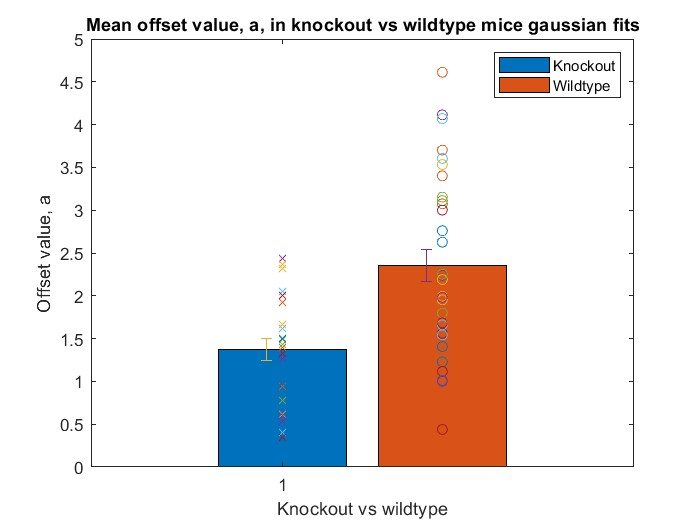
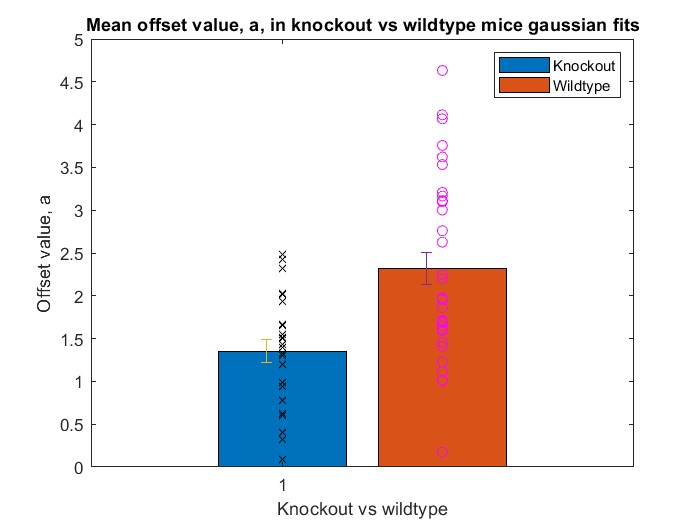
Final verison

diff --git a/graph_bar.m b/graph_bar.m
@@ -4,16 +4,16 @@ bar(1,mean_a_ko);
 hold on;
 bar(2,mean_a_wt);
 hold on;
-plot(1, a_ko_good, 'x');
+plot(1, a_ko_good, 'kx');
 hold on;
-plot(2, a_wt_good, 'o');
+plot(2, a_wt_good, 'mo');
 xlabel('Knockout vs wildtype'); 
 ylabel('Offset value, a');
 Num_reps1 = length(a_ko_good);
 Num_reps2 = length(a_wt_good);
 
-errorbar(0.9,mean_a_ko,std(a_ko_good')/sqrt(Num_reps1));
-errorbar(1.9,mean_a_wt,std(a_wt_good')/sqrt(Num_reps2));
+errorbar(0.9,mean_a_ko,std(a_ko_good)/sqrt(Num_reps1));
+errorbar(1.9,mean_a_wt,std(a_wt_good)/sqrt(Num_reps2));
 title('Mean offset value, a, in knockout vs wildtype mice gaussian fits');
 legend('Knockout','Wildtype');
 
@@ -22,17 +22,17 @@ bar(1,mean_d_ko);
 hold on;
 bar(2, mean_d_wt);
 hold on;
-plot(1, d_ko_good, 'x');
+plot(1, d_ko_good', 'kx');
 hold on;
-plot(2, d_wt_good, 'o');
+plot(2, d_wt_good', 'mo');
 xlabel('Knockout vs wildtype'); 
 ylabel('Peak width, d');
 Num_reps3 = length(b_ko_good);
 Num_reps4 = length(b_wt_good);
 
 title('Mean peak width, d, in knockout vs wildtype mice gaussian fits');
-errorbar(0.9,mean_d_ko,std(d_ko_good')/sqrt(Num_reps3));
-errorbar(1.9,mean_d_wt,std(d_wt_good')/sqrt(Num_reps4));
+errorbar(0.9,mean_d_ko,std(d_ko_good)/sqrt(Num_reps3));
+errorbar(1.9,mean_d_wt,std(d_wt_good)/sqrt(Num_reps4));
 legend('Knockout','Wildtype');
 
 figure;
@@ -40,15 +40,15 @@ bar(1,mean_c_ko);
 hold on;
 bar(2,mean_c_wt);
 hold on;
-plot(1, c_ko_good, 'x');
+plot(1, c_ko_good', 'kx');
 hold on;
-plot(2, c_wt_good, 'o');
+plot(2, c_wt_good', 'mo');
 xlabel('Knockout vs wildtype'); 
 ylabel('Peak location, c');
 Num_reps5 = length(c_ko_good);
 Num_reps6 = length(c_wt_good);
 
-errorbar(0.9,mean_c_ko,std(c_ko_good')/sqrt(Num_reps5));
-errorbar(1.9,mean_c_wt,std(c_wt_good')/sqrt(Num_reps6));
+errorbar(0.9,mean_c_ko,std(c_ko_good)/sqrt(Num_reps5));
+errorbar(1.9,mean_c_wt,std(c_wt_good)/sqrt(Num_reps6));
 title('Mean peak location, c, in knockout vs wildtype mice gaussian fits');
 legend('Knockout','Wildtype');

diff --git a/gaussfit.m b/gaussfit.m
@@ -17,7 +17,7 @@ b_guess = max(max(y'));
 c_guess = randn;
 d_guess = 1;
 fo.StartPoint = [a_guess b_guess c_guess d_guess];
-fo.Lower = [-b_guess; 0; min(min(x')); -Inf];  
+fo.Lower = [-b_guess; 0; min(min(x')); 0];  
 fo.Upper = [b_guess; Inf; max(max(x')); Inf]; 
 gauss = setoptions(gauss, fo);
     [currentfit,currentgof] = fit(x(:),y(:),gauss); % perform fit
